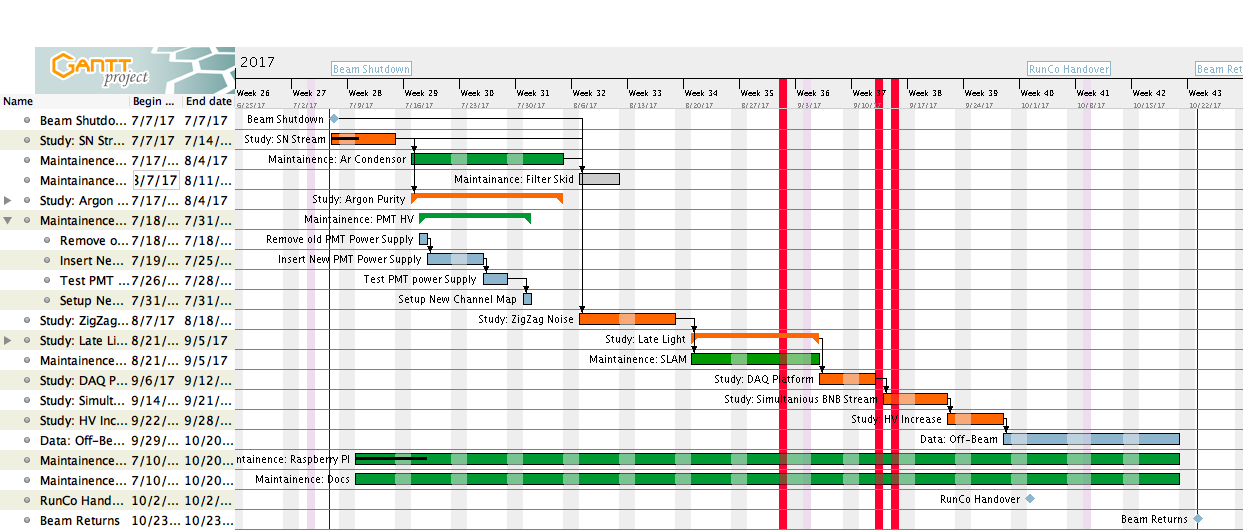
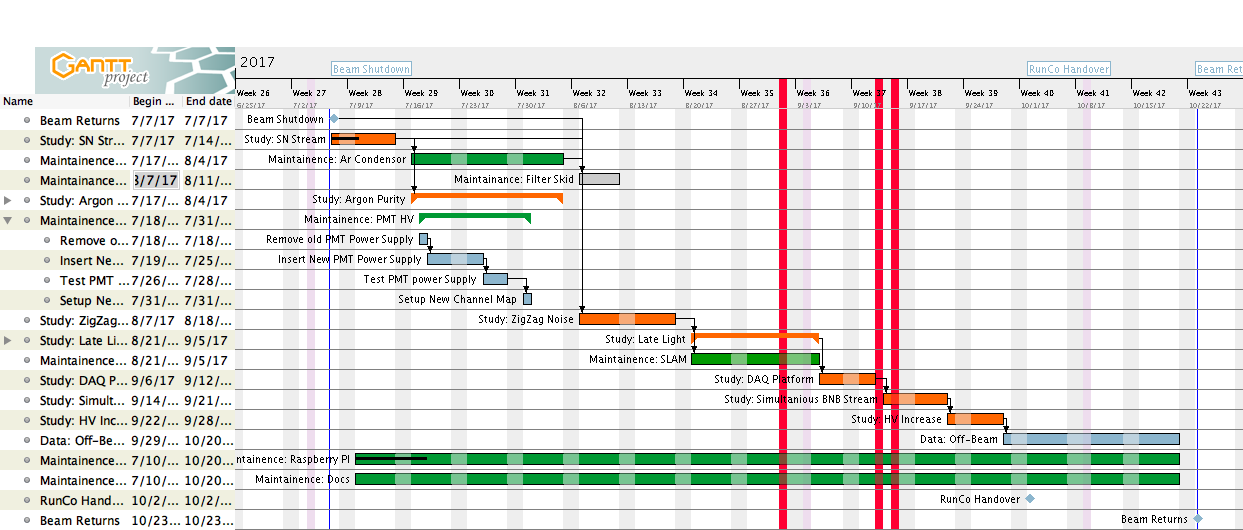
Update

Changed region(s): [[0.0, 0.3019, 0.214, 0.3623], [0.0611, 0.2113, 0.0917, 0.2415]]

diff --git a/index-tasks.html b/index-tasks.html
@@ -194,7 +194,7 @@ h5.header {
 <div style="margin:0; padding:0; padding-left:0.5em">
 <div style="margin: 0; padding: 0;">8/4/17</div>
 </div>
-</td><td valign="top" class="cell">MB TPC, FNAL Cryo</td>
+</td><td valign="top" class="cell">UB TPC, FNAL Cryo</td>
 </tr>
 <tr>
 <td valign="top" class="cell">
@@ -224,7 +224,7 @@ h5.header {
 <div style="margin:0; padding:0; padding-left:0.5em">
 <div style="margin: 0; padding: 0;">8/4/17</div>
 </div>
-</td><td valign="top" class="cell">MB DAQ</td>
+</td><td valign="top" class="cell">UB DAQ</td>
 </tr>
 <tr>
 <td valign="top" class="cell">
@@ -284,7 +284,7 @@ h5.header {
 <div style="margin:0; padding:0; padding-left:0.5em">
 <div style="margin: 0; padding: 0;">7/31/17</div>
 </div>
-</td><td valign="top" class="cell">MB PMT</td>
+</td><td valign="top" class="cell">UB PMT</td>
 </tr>
 <tr>
 <td valign="top" class="cell">
@@ -359,7 +359,7 @@ h5.header {
 <div style="margin:0; padding:0; padding-left:0.5em">
 <div style="margin: 0; padding: 0;">8/18/17</div>
 </div>
-</td><td valign="top" class="cell">MB DAQ, MB TPC, MB PMT, FNAL EE</td>
+</td><td valign="top" class="cell">UB DAQ, UB TPC, UB PMT, FNAL EE</td>
 </tr>
 <tr>
 <td valign="top" class="cell">
@@ -374,7 +374,7 @@ h5.header {
 <div style="margin:0; padding:0; padding-left:0.5em">
 <div style="margin: 0; padding: 0;">9/5/17</div>
 </div>
-</td><td valign="top" class="cell">MB PMT</td>
+</td><td valign="top" class="cell">UB PMT</td>
 </tr>
 <tr>
 <td valign="top" class="cell">
@@ -434,7 +434,7 @@ h5.header {
 <div style="margin:0; padding:0; padding-left:0.5em">
 <div style="margin: 0; padding: 0;">9/5/17</div>
 </div>
-</td><td valign="top" class="cell">MB DAQ, FNAL SLAM</td>
+</td><td valign="top" class="cell">UB DAQ, FNAL SLAM</td>
 </tr>
 <tr>
 <td valign="top" class="cell">
@@ -449,7 +449,7 @@ h5.header {
 <div style="margin:0; padding:0; padding-left:0.5em">
 <div style="margin: 0; padding: 0;">9/12/17</div>
 </div>
-</td><td valign="top" class="cell">MB DAQ</td>
+</td><td valign="top" class="cell">UB DAQ</td>
 </tr>
 <tr>
 <td valign="top" class="cell">
@@ -464,7 +464,7 @@ h5.header {
 <div style="margin:0; padding:0; padding-left:0.5em">
 <div style="margin: 0; padding: 0;">9/21/17</div>
 </div>
-</td><td valign="top" class="cell">MB DAQ, MB TPC, MB PMT</td>
+</td><td valign="top" class="cell">UB DAQ, UB TPC, UB PMT</td>
 </tr>
 <tr>
 <td valign="top" class="cell">
@@ -479,7 +479,7 @@ h5.header {
 <div style="margin:0; padding:0; padding-left:0.5em">
 <div style="margin: 0; padding: 0;">9/28/17</div>
 </div>
-</td><td valign="top" class="cell">MB DAQ, MB TPC</td>
+</td><td valign="top" class="cell">UB DAQ, UB TPC</td>
 </tr>
 <tr>
 <td valign="top" class="cell">
@@ -494,7 +494,7 @@ h5.header {
 <div style="margin:0; padding:0; padding-left:0.5em">
 <div style="margin: 0; padding: 0;">10/20/17</div>
 </div>
-</td><td valign="top" class="cell">MB DAQ, MB TPC, MB PMT</td>
+</td><td valign="top" class="cell">UB DAQ, UB TPC, UB PMT</td>
 </tr>
 <tr>
 <td valign="top" class="cell">
@@ -563,7 +563,7 @@ h5.header {
 <tr>
 <td bgcolor="#6d9ec6" width="50%"><font color="#FFFFFF"><b>Ganttproject (2.8.5 Pilsen (build 2179))</b></font></td><td bgcolor="#6d9ec6" width="50%" align="right"><b><a href="http://ganttproject.biz">ganttproject.biz</a></b>
 <br>
-<b>7/3/17 - 12:57:15 PM</b></td>
+<b>7/3/17 - 12:59:28 PM</b></td>
 </tr>
 </table>
 </body>

diff --git a/index-resources.html b/index-resources.html
@@ -148,13 +148,13 @@ h5.header {
 </td>
 </tr>
 <tr>
-<td valign="top" class="cell">MB DAQ</td><td valign="top" class="cell">undefined</td>
+<td valign="top" class="cell">UB DAQ</td><td valign="top" class="cell">UB Hardware</td>
 </tr>
 <tr>
-<td valign="top" class="cell">MB TPC</td><td valign="top" class="cell">undefined</td>
+<td valign="top" class="cell">UB TPC</td><td valign="top" class="cell">UB Hardware</td>
 </tr>
 <tr>
-<td valign="top" class="cell">MB PMT</td><td valign="top" class="cell">undefined</td>
+<td valign="top" class="cell">UB PMT</td><td valign="top" class="cell">UB Hardware</td>
 </tr>
 <tr>
 <td valign="top" class="cell">FNAL EE</td><td valign="top" class="cell">FNAL Resource</td>
@@ -175,7 +175,7 @@ h5.header {
 <tr>
 <td bgcolor="#6d9ec6" width="50%"><font color="#FFFFFF"><b>Ganttproject (2.8.5 Pilsen (build 2179))</b></font></td><td bgcolor="#6d9ec6" width="50%" align="right"><b><a href="http://ganttproject.biz">ganttproject.biz</a></b>
 <br>
-<b>7/3/17 - 12:57:15 PM</b></td>
+<b>7/3/17 - 12:59:28 PM</b></td>
 </tr>
 </table>
 </body>

diff --git a/index-chart.html b/index-chart.html
@@ -122,7 +122,7 @@ div.page_links {
 <tr>
 <td bgcolor="#6d9ec6" width="50%"><font color="#FFFFFF"><b>Ganttproject (2.8.5 Pilsen (build 2179))</b></font></td><td bgcolor="#6d9ec6" width="50%" align="right"><b><a href="http://ganttproject.biz">ganttproject.biz</a></b>
 <br>
-<b>7/3/17 - 12:57:15 PM</b></td>
+<b>7/3/17 - 12:59:28 PM</b></td>
 </tr>
 </table>
 </body>

diff --git a/index.html b/index.html
@@ -152,7 +152,7 @@ div.page_links {
 <tr>
 <td bgcolor="#6d9ec6" width="50%"><font color="#FFFFFF"><b>Ganttproject (2.8.5 Pilsen (build 2179))</b></font></td><td bgcolor="#6d9ec6" width="50%" align="right"><b><a href="http://ganttproject.biz">ganttproject.biz</a></b>
 <br>
-<b>7/3/17 - 12:57:15 PM</b></td>
+<b>7/3/17 - 12:59:28 PM</b></td>
 </tr>
 </table>
 </body>
